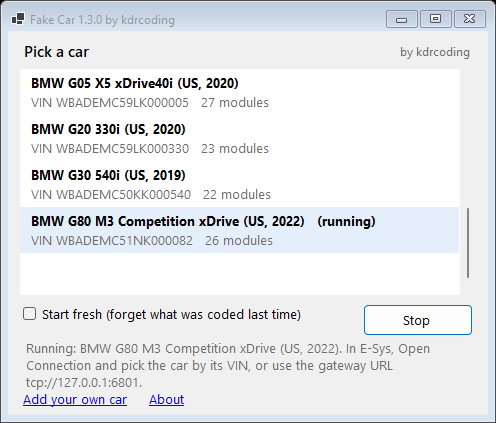
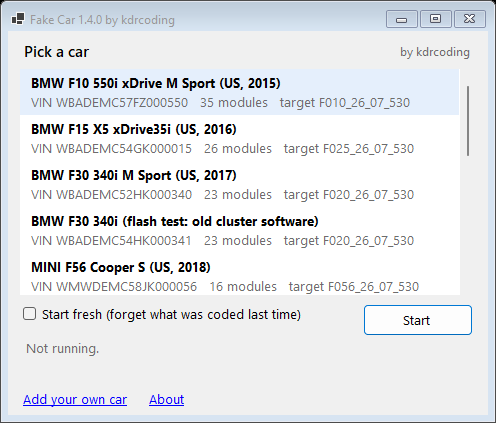
1.4.0: window shows each car's E-Sys target, mileage kept in every module, KM_CLUSTER for a rolled-back car
- The car list and the Running line name the target to pick in Open Connection (from ISTEP_CURRENT)
- Every module answers 2540 (km), the body module 1700 (backup), the cluster D10D (working and stored total)
- KM_CLUSTER in car.txt: the cluster shows other km than the rest of the car
- README: TAL calculation works on F- and G-series cars with the right target

diff --git a/src/FakeCar/PickerForm.cs b/src/FakeCar/PickerForm.cs
@@ -5,7 +5,13 @@ namespace FakeCar;
 /// <summary>The window: every car model in the cars folder, pick one and start it. Closing the window stops the car.</summary>
 sealed class PickerForm : Form
 {
-    sealed record Model(string Folder, string Name, string Vin, int Modules);
+    sealed record Model(string Folder, string Name, string Vin, int Modules, string Target)
+    {
+        /// <summary>"Running" line: how to find this car in E-Sys's Open Connection.</summary>
+        public string Connect => Target.Length > 0
+            ? $"pick the car by its VIN, or use the gateway URL tcp://127.0.0.1:6801 with target {Target}"
+            : "pick the car by its VIN, or use the gateway URL tcp://127.0.0.1:6801";
+    }
 
     readonly ListBox list = new() { Dock = DockStyle.Fill, DrawMode = DrawMode.OwnerDrawFixed, ItemHeight = 46, BorderStyle = BorderStyle.None, IntegralHeight = false };
     readonly CheckBox fresh = new() { Text = "Start fresh (forget what was coded last time)", AutoSize = true };
@@ -174,7 +180,9 @@ sealed class PickerForm : Form
         if (!File.Exists(settingsFile) || (!File.Exists(modulesFile) && !File.Exists(Path.Combine(dir, "FA.xml")))) return null;
         var settings = Car.ReadSettings(settingsFile);
         var modules = File.Exists(modulesFile) ? File.ReadLines(modulesFile).Count(l => l.Length > 0 && !l.StartsWith('#')) : 0;
-        return new Model(dir, settings.GetValueOrDefault("NAME", Path.GetFileName(dir)), settings.GetValueOrDefault("VIN", ""), modules);
+        // The E-Sys target is the PSdZData project of the car's I-step: F020-26-07-530 is F020_26_07_530_...
+        var target = settings.GetValueOrDefault("ISTEP_CURRENT", "").Replace('-', '_');
+        return new Model(dir, settings.GetValueOrDefault("NAME", Path.GetFileName(dir)), settings.GetValueOrDefault("VIN", ""), modules, target);
     }
 
     void DrawModel(object? sender, DrawItemEventArgs e)
@@ -187,7 +195,7 @@ sealed class PickerForm : Form
         using var bold = new Font(Font, FontStyle.Bold);
         var line = m.Name + (m == runningModel ? "   (running)" : "");
         TextRenderer.DrawText(e.Graphics, line, bold, new Point(e.Bounds.X + 8, e.Bounds.Y + 5), list.ForeColor);
-        var detail = m.Modules > 0 ? $"VIN {m.Vin}   {m.Modules} modules" : $"VIN {m.Vin}   built from your PSdZData on first start";
+        var detail = m.Modules > 0 ? $"VIN {m.Vin}   {m.Modules} modules" + (m.Target.Length > 0 ? $"   target {m.Target}" : "") : $"VIN {m.Vin}   built from your PSdZData on first start";
         TextRenderer.DrawText(e.Graphics, detail, Font, new Point(e.Bounds.X + 8, e.Bounds.Y + 24), SystemColors.GrayText);
     }
 
@@ -270,7 +278,7 @@ sealed class PickerForm : Form
             return;
         }
         start.Text = Selected == runningModel ? "Stop" : "Switch";
-        status.Text = $"Running: {runningModel.Name}. In E-Sys, Open Connection and pick the car by its VIN, or use the gateway URL tcp://127.0.0.1:6801.";
+        status.Text = $"Running: {runningModel.Name}. In E-Sys, Open Connection and {runningModel.Connect}.";
     }
 
     public void TakePicture(string path, bool startCar)

diff --git a/src/FakeCar/Car.cs b/src/FakeCar/Car.cs
@@ -113,10 +113,21 @@ sealed class Car
         }
         gw.Dids[Dids.IStep] = IStepBytes(settings["ISTEP_CURRENT"], settings["ISTEP_LAST"], settings["ISTEP_SHIPMENT"]);
 
-        // Odometer in the gateway (and cluster): 3 bytes, km.
+        // Mileage: every module keeps its own copy (2540, 3 bytes, km), saved at intervals so it trails the real value a
+        // little; the body module has a backup (1700), the cluster a working and a stored total (D10D, 4 bytes each).
+        // KM_CLUSTER makes the cluster show other km than the rest of the car keeps: a rolled-back car to practise on.
         var km = int.Parse(settings.GetValueOrDefault("KM", "48312"), CultureInfo.InvariantCulture);
-        foreach (var a in new byte[] { car.Gateway, 0x60 })
-            if (car.Ecus.TryGetValue(a, out var withKm)) withKm.Dids[0x2540] = [(byte)(km >> 16), (byte)(km >> 8), (byte)km];
+        var shown = int.Parse(settings.GetValueOrDefault("KM_CLUSTER", km.ToString(CultureInfo.InvariantCulture)), CultureInfo.InvariantCulture);
+        foreach (var ecu in car.Ecus.Values)
+            ecu.Dids[0x2540] = Km3(ecu.Address == car.Gateway ? km : Math.Max(0, km - ecu.Address * 53 % 180));
+        if (car.Ecus.TryGetValue(0x40, out var bodyKm)) bodyKm.Dids[0x1700] = Km3(Math.Max(0, km - 40));
+        if (car.Ecus.TryGetValue(0x60, out var cluster))
+        {
+            var stored = shown / 10 * 10;
+            cluster.Dids[0x2540] = Km3(shown);
+            cluster.Dids[0xD10D] = [(byte)(shown >> 24), (byte)(shown >> 16), (byte)(shown >> 8), (byte)shown,
+                (byte)(stored >> 24), (byte)(stored >> 16), (byte)(stored >> 8), (byte)stored];
+        }
         // Battery: voltage at the engine computer (mV) and its registered capacity (Ah).
         if (car.Ecus.TryGetValue(0x12, out var dme))
         {
@@ -214,6 +225,8 @@ sealed class Car
         // Coding stamp: the last 7 of the VIN this module was coded on.
         ecu.Dids.TryAdd(0x37FE, [.. vin[^7..], 0x00, 0x00]);
     }
+
+    static byte[] Km3(int km) => [(byte)(km >> 16), (byte)(km >> 8), (byte)km];
 
     /// <summary>A VCM record: 2-byte length, the data (no signature part).</summary>
     static byte[] VcmRecord(byte[] data) => [(byte)(data.Length >> 8), (byte)data.Length, .. data];

diff --git a/README.md b/README.md
@@ -14,7 +14,7 @@ Use it to learn E-Sys, try a coding tool before it touches a real car, or record
 2. Start `FakeCar.exe`, pick a car, press **Start**. The first start of a car builds it from your PSdZData (about half a minute, once).
 3. In E-Sys, click **Open Connection** and either
    - pick the Fake Car by its VIN under **Connection via VIN**, or
-   - choose **Connection via gateway URL**, enter `tcp://127.0.0.1:6801`, pick the target for that car's series (F010, F020, S15A or S18A), and tick **Read parameters from VCM**.
+   - choose **Connection via gateway URL**, enter `tcp://127.0.0.1:6801`, pick the target the Fake Car window shows for the running car (for example `F020_26_07_530` for the F30), and tick **Read parameters from VCM**. A target of another series connects too, but E-Sys's TAL calculation then stops with a PSdZ error ("DetailInfo must not be null").
 4. Work as you would with a real car.
 
 Close the window to switch the car off. Everything you change stays for next time. Tick **Start fresh** to go back to the car as it left the factory.
@@ -36,9 +36,10 @@ Close the window to switch the car off. Everything you change stays for next tim
 | Flash software | Yes, the module reports the new version |
 | FSC codes (store, read, check, cancel) | Head unit and instrument cluster, F-series cars (G-series use SFA, which needs BMW's backend) |
 | Read and clear fault memory | Yes |
+| Mileage kept in the modules (for used-car checks) | Every module, the body module backup and the cluster's two totals |
 | Module reset | Yes |
 
-Tested with E-Sys 25.10: connecting, reading and writing FA, FP and I-steps, SVT, coding, and FSC actions (status, VIN, SID on the head unit). Flash planning finds the out-of-date module, but on this test PC E-Sys's TAL calculation currently stops with a PSdZ error, so a full flash run is not tested. ISTA finds cars the same way over the network, but it is not tested yet either.
+Tested with E-Sys 25.10: connecting, reading and writing FA, FP and I-steps, SVT, coding, and FSC actions (status, VIN, SID on the head unit). TAL calculation works on F- and G-series cars (F30 practice car: the cluster is planned for flashing; G80: up to date, nothing to flash). Running a full flash (Execute) is not tested yet. ISTA finds cars the same way over the network, but it is not tested yet either.
 
 ## Car models
 
@@ -64,7 +65,7 @@ Each car is built on your own PC from your own PSdZData, the way the factory put
 
 <img src="docs/esys-flash.png" alt="E-Sys TAL-Calculating with the Fake Car: the instrument cluster is marked for flashing" width="768">
 
-Use the **F30 340i with old cluster software**: its instrument cluster still has the software it was built with. Flash planning works on F-series cars; on G-series cars E-Sys's TAL calculation does not finish yet.
+Use the **F30 340i with old cluster software**: its instrument cluster still has the software it was built with. Connect with the target the Fake Car window shows (F020_26_07_530 for this car).
 
 1. **Comfort Mode > TAL-Calculating**.
 2. Vehicle Order: **Read**. SVT Actual: **Read (ECU) without smart actuators**.
@@ -87,9 +88,11 @@ Save your car's vehicle order in E-Sys (**Expert Mode > VCM**, **Read**, then **
 Copy a car folder and change two files:
 
 - `FA.xml`: the vehicle order. `typeKey` (type key), `series` (development series, for example F030 for an F30), `timeCriteria` (MMYY), the SA codes.
-- `car.txt`: name, a made-up VIN with a valid check digit, mileage, battery. The I-steps (`ISTEP_SHIPMENT`, `ISTEP_LAST`, `ISTEP_CURRENT`) are optional: without them the builder takes them from your PSdZData and writes them in.
+- `car.txt`: name, a made-up VIN with a valid check digit, mileage (`KM`), battery. The I-steps (`ISTEP_SHIPMENT`, `ISTEP_LAST`, `ISTEP_CURRENT`) are optional: without them the builder takes them from your PSdZData and writes them in.
 
 `faults.txt` lists the faults it has stored (module address, fault code, status, count, km).
+
+To practise spotting a rolled-back car, add `KM_CLUSTER=30000` to `car.txt`: the instrument cluster shows 30,000 km while the other modules keep the real `KM`.
 
 To have something to flash, add `OUTDATED=60` (module addresses, comma separated) to `car.txt`: those modules keep the software they were built with.
 
